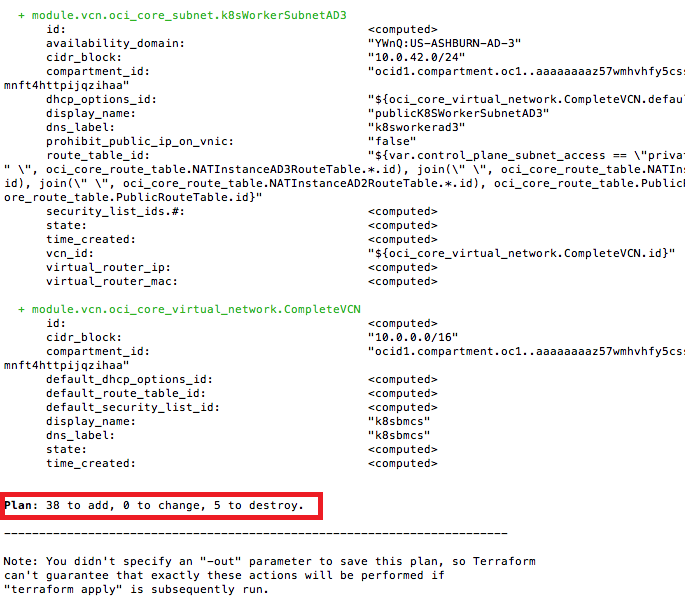
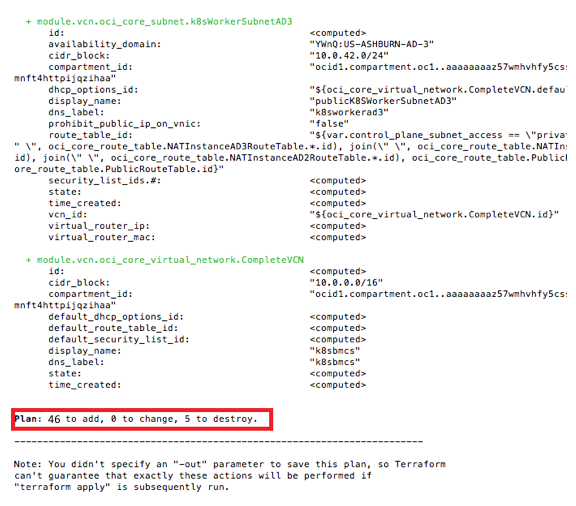
changed the count on 60.png image

diff --git a/workshops/container-native-development/LabGuide200.md b/workshops/container-native-development/LabGuide200.md
@@ -224,7 +224,7 @@ An API key is required for Terraform to authenticate to OCI in order to create c
 
   ![](images/200/60.png)
 
-- If the output of the plan step looks correct (note: the number in the "Plan to add" field may vary), you are ready to actually provision the infrastructure by running the following command in your **terminal window**. Note that Terraform will prompt you to type `yes` after it recomputes the required plan in order to begin provisioning.
+- If the output of the plan step looks correct, you are ready to actually provision the infrastructure by running the following command in your **terminal window**. Note that Terraform will prompt you to type `yes` after it recomputes the required plan in order to begin provisioning.
 
   ```bash
   terraform apply
